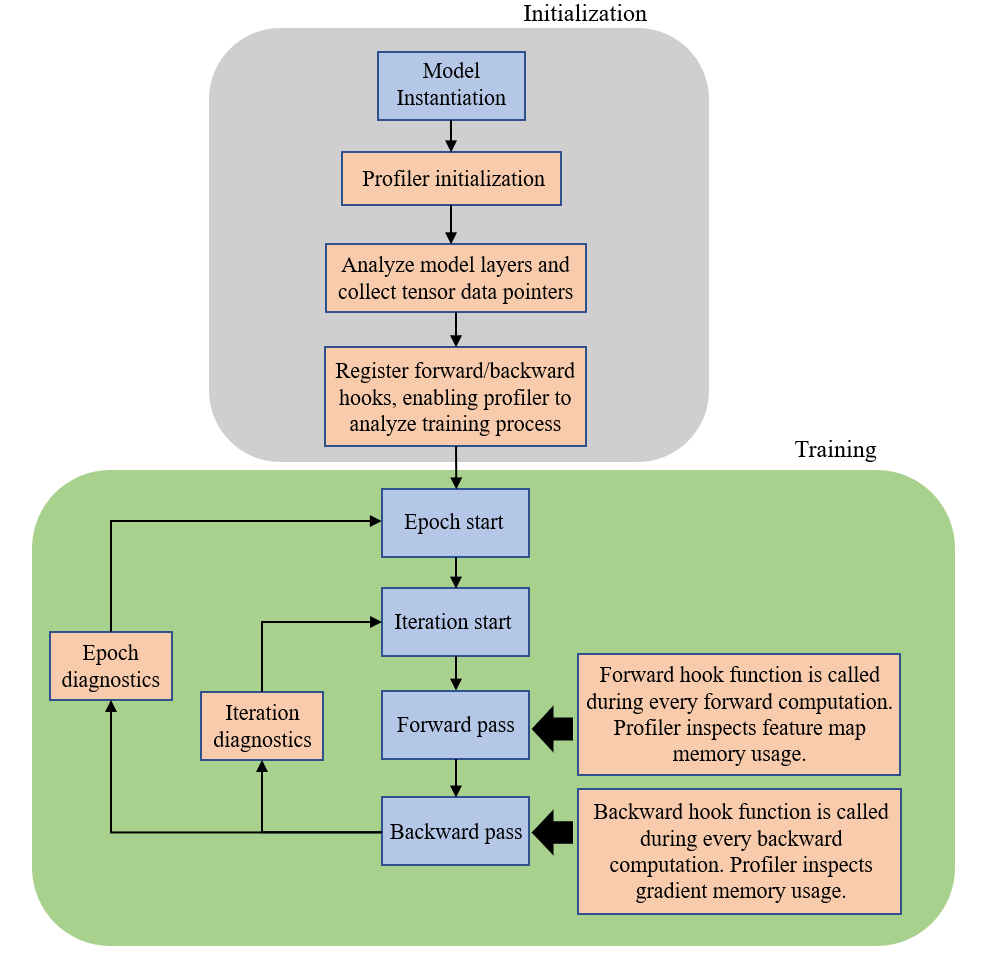
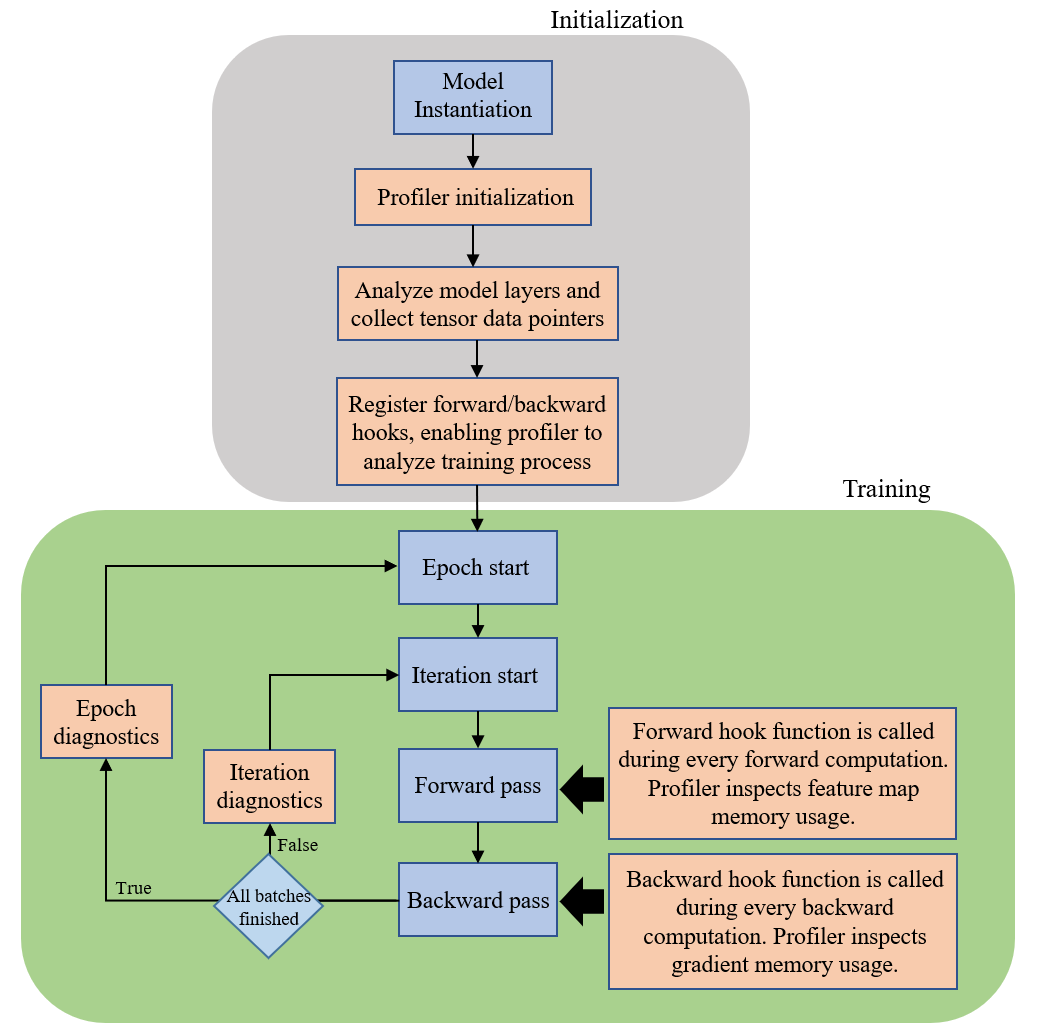
Outline of final report now in place. Added system diagram figure.

Changed region(s): [[0.0, 0.0, 1.0, 0.999], [0.1826, 0.0937, 0.213, 0.437]]

diff --git a/final_report/final_report.tex b/final_report/final_report.tex
@@ -64,7 +64,8 @@ The EcoSystem research group at the University of Toronto has developed open-sou
 
 To profile memory with PyTorch, the fastest-growing machine learning framework today, new strategies and insight are required. This paper first provides background on the topic, then presents a novel memory profiler for PyTorch along with results of it being used on real models. \par 
 
-\section{Background}
+%%%%%%%%% BACKGROUND 
+\section{Computational Machine Learning and Existing Profilers}
 %%%%%%%%% BACKGROUND::Neural Networks
 \cvprsubsection{Neural Networks}
 While there are many types of artificial neural networks, they all involve the transformation of some input data (for example the pixels of an image) into meaningful output - in fact, a neural network is nothing more than a composition of mathematical functions. The function modeled by a neural network is special, however, because it can model \textit{any} mathematical function with arbitrary accuracy (provided that the network has at least two layers) \cite{dnn_history}. It is because of this property that neural networks have been labeled \enquote*{universal approximators}. Loosely, this means that if there are useful patterns in the world - whether they correspond to user preferences in movies based on past movies they have watched, or classification of images based on their pixel composition, or even cardiac arrest likelihood based on heart rate - a sufficiently-trained neural network can identify it. The effectiveness of a neural network in identifying these patterns depends primarily on two things: the amount of data it has been trained with, and its specific topology.
@@ -189,15 +190,15 @@ The MXNet memory profiler's main challenge is linking symbol names to specific \
 \label{fig:mxnet_design}
 \end{figure}
 
-%%%%%%%%% PROGRESS TO DATE
-\section{Progress to Date}
+%%%%%%%%% METHODS
+\section{Designing a PyTorch Memory Profiler}
 \label{progress_to_date}
-Unlike the frameworks for which these memory profilers were created, PyTorch uses completely different memory management and computational graph strategies. In order to create a memory profiler for PyTorch, these differences must be investigated and thoroughly understood. This involves investigating both its front end (Python\footnote{While PyTorch does have a C++ front end as well, it is generally less user-friendly and not used as often}) and back end (C++) code implementations. This section discusses the internals of PyTorch and how a memory profiler can be created.
+Unlike the frameworks for which these memory profilers were created, PyTorch uses completely different memory management and computational graph strategies. In order to create a memory profiler for PyTorch, these differences must be investigated and thoroughly understood. This involves investigating both its front end (Python\footnote{While PyTorch does have a C++ front end as well, it is generally less user-friendly and not used as often}) and back end (C++) code implementations. This section discusses the internals of PyTorch and how the memory profiler was created.
 
-%%%%%%%%% PROGRESS TO DATE::Memory Caching
+%%%%%%%%% METHODS::Memory Caching
 \cvprsubsection{Memory Caching}
 \label{sec:memory_caching}
-The first difference - and perhaps most important one in the context of this paper - is how PyTorch handles its device memory. Unlike other frameworks, PyTorch uses \textit{caching} as its primary memory management strategy. The reason for this lies in the fact that PyTorch does not create a static computational graph with pre-allocated room for variables and tensors. This new paradigm, which is discussed in later sections of this paper, is known as \textit{dynamic computational graphs}. For now it suffices to say that PyTorch does not know how the forward and backward pass will be executed until runtime, i.e. until training or inference begins. Caching is best explained by the creators of PyTorch \cite{pytorch_paper}:
+The first difference - and perhaps most important one in the context of this paper - is how PyTorch handles its device memory. Unlike other frameworks, PyTorch uses \textit{caching} as its primary memory management strategy. The reason for this lies in the fact that PyTorch does not create a static computational graph with pre-allocated room for variables and tensors. This new paradigm, which is discussed in section \ref{dynamic_computational_graphs_and_autograd}, is known as \textit{dynamic computational graphs}. For now it suffices to say that PyTorch does not know how the forward and backward pass will be executed until runtime, i.e. until training or inference begins. Caching is best explained by the creators of PyTorch \cite{pytorch_paper}:
 
 \begin{quote}
 \enquote{
@@ -226,7 +227,7 @@ By gradually increasing the cache size as the program progresses, the majority o
  
 %%%%%%%%%%%%%%%%%%%%%%%%%%%%%%%%%%%%%%%%%%%%%%%%%%%%%%%%%%
 %
-%     PROGRESS TO DATE::Tensors in PyTorch
+%     METHODS ::Tensors in PyTorch
 %
 %%%%%%%%%%%%%%%%%%%%%%%%%%%%%%%%%%%%%%%%%%%%%%%%%%%%%%%%%%
 
@@ -306,8 +307,15 @@ The output is as follows:
 \end{lstlisting}
 \par
 This convenient saving of layer names has many similarities to the one previously discussed in MXNet in section \ref{sec:Machine_Learning_Frameworks_and_Memory_Profiler}, and will serve to be useful in creating a new memory profiler for PyTorch given the mapping it provides between layer names and their data objects. 
-%%%%%%%%% PROGRESS TO DATE::Dynamic Computational Graphs and Autograd
+
+%%%%%%%%%%%%%%%%%%%%%%%%%%%%%%%%%%%%%%%%%%%%%%%%%%%%%%%%%%
+%
+%     PROGRESS TO DATE::Dynamic Computational Graphs and Autograd
+%
+%%%%%%%%%%%%%%%%%%%%%%%%%%%%%%%%%%%%%%%%%%%%%%%%%%%%%%%%%%
+
 \cvprsubsection{Dynamic Computational Graphs and Autograd}
+\label{dynamic_computational_graphs_and_autograd}
 The network definition in Listing \ref{listing:nn.module_example} has one other important definition, namely its \texttt{forward()} method. This method describes the exact sequence of calculations that will be undertaken during the forward pass of the network, both during training and inference. This example is trivial, and the backward pass procedure could be defined manually with some basic calculus and a few lines of code. However, modern neural networks are very complex and have detailed computational procedures that define their forward passes. Manually defining a backward pass each time would be an arduous and error-prone process, and thus a more scalable system is required.
 \par
 
@@ -350,40 +358,40 @@ total_memory = tensor.storage().size() * tensor.element_size()
 The calculated total memory size can then be saved by the profiler and used by its algorithm. It is noted that, as mentioned in section \ref{sec:memory_caching}, allocations are rounded to 512 bytes and this must be taken into account by the profiler.
 \par 
 
-The proposed strategy involves creating a helper class which will do the memory profiling analysis. Users will be able to interface this profiler with their existing PyTorch code via a simple API, starting off by passing in their model instance. Once the profiler receives the model, it can access the model's \texttt{state\_dict} and determine the layer names and their underlying tensor data. This allows the profiler to determine the memory consumption of the weights.
-\par 
-
-Next, there must be a mechanism to analyze activations and gradients. Hooks are used for this purpose. Recall that there are many ways to use hooks, i.e. different types and also different ways to call each of these types. For activations, \texttt{register\_forward\_hook()} will internally be called on each of the layers. The function which is registered by the hook will inspect the activation output at the time it is being created, and measure its size in memory. This allows the profiler to directly measure how much device memory is being consumed by all the activations, broken down by layer name.
-\par 
-
-Gradients will also be analyzed with hooks, but this time by using \texttt{register\_backward\_hook()} on the model itself. This usage of the hooking mechanism will record all intermediate gradients that are calculated, not just the gradients for leaf nodes in the computational graph. The sizes of all these gradients will also be stored in the profiler's internal data structures.
-\par 
-
-Preliminary testing using this approach has been effective in capturing tensor data and determining memory usage.
-\par 
-
-%%%%%%%%% FUTURE WORK
-\section{Future Work}
-\label{future_work}
-A user-friendly and feature-complete profiler must be finalized. This requires combining the profiler components together, and further investigation about how to cleanly integrate the profiler with a user's PyTorch code. The current approach has been to insert a few API calls at specific sections of the training run - for example right before and after the \texttt{.backward()} call - which informs the user about the total memory usage of the program (including the cache), the total amount of the cache currently used by tensors, and a layer-by-layer breakdown of these tensors. Finally, given the rising usage of distributed computing techniques (several GPUs instead of just one) by the community, functionality to determine a device-by-device memory breakdown is needed. This is a straightforward extension of existing methods used by this profiler. The metrics gathered by the profiler must then be exported into visual graphs, which can be done using Matplotlib \cite{matplotlib}.
-\par
-
-Once the profiler has been completed, it will be used to investigate the memory usage of current models. This application of the profiler to real-world use cases will comprise the remainder of the project.
 \begin{figure}[ht]
 \centering
-\includegraphics[width=.9\textwidth]{remaining_work_schedule.png}
-\captionsetup{width=0.7\linewidth}
-\caption{Remaining timeline}
-\label{fig:thesis_timeline}
+\includegraphics[width=1.0\textwidth]{profiler_system_diagram.PNG}
+\captionsetup{width=0.9\linewidth}
+\caption{System diagram of the proposed PyTorch memory profiler}
+\label{fig:profiler_system_diagram}
 \end{figure}
 
+In Figure \ref{fig:profiler_system_diagram} blue steps comprise the normal training workflow, and orange steps are the modifications to the flow done autonomously by the profiler.
 
+% TODO: explain system diagram, walk explain how hooks and the profiler works in general, and go through the README example from github to show it in use
+% The proposed strategy involves creating a helper class which will do the memory profiling analysis. Users will be able to interface this profiler with their existing PyTorch code via a simple API, starting off by passing in their model instance. Once the profiler receives the model, it can access the model's \texttt{state\_dict} and determine the layer names and their underlying tensor data. This allows the profiler to determine the memory consumption of the weights.
+% \par 
 
+% Next, there must be a mechanism to analyze activations and gradients. Hooks are used for this purpose. Recall that there are many ways to use hooks, i.e. different types and also different ways to call each of these types. For activations, \texttt{register\_forward\_hook()} will internally be called on each of the layers. The function which is registered by the hook will inspect the activation output at the time it is being created, and measure its size in memory. This allows the profiler to directly measure how much device memory is being consumed by all the activations, broken down by layer name.
+% \par 
 
-%%%%%% csv stuff
+% Gradients will also be analyzed with hooks, but this time by using \texttt{register\_backward\_hook()} on the model itself. This usage of the hooking mechanism will record all intermediate gradients that are calculated, not just the gradients for leaf nodes in the computational graph. The sizes of all these gradients will also be stored in the profiler's internal data structures.
+% \par 
 
+% Preliminary testing using this approach has been effective in capturing tensor data and determining memory usage.
+% \par 
 
+%%%%%%%%% RESULTS
+\section{PyTorch Memory Profiling Results}
+\label{results}
+% TODO: show results from profiling 
+% A user-friendly and feature-complete profiler must be finalized. This requires combining the profiler components together, and further investigation about how to cleanly integrate the profiler with a user's PyTorch code. The current approach has been to insert a few API calls at specific sections of the training run - for example right before and after the \texttt{.backward()} call - which informs the user about the total memory usage of the program (including the cache), the total amount of the cache currently used by tensors, and a layer-by-layer breakdown of these tensors. Finally, given the rising usage of distributed computing techniques (several GPUs instead of just one) by the community, functionality to determine a device-by-device memory breakdown is needed. This is a straightforward extension of existing methods used by this profiler. The metrics gathered by the profiler must then be exported into visual graphs, which can be done using Matplotlib \cite{matplotlib}.
+% \par
 
+%%%%%%%%% CONCLUSION
+\section{Conclusion and Further Work}
+\label{conclusion}
+% TODO
 
 
 %%%%%%%%% APPENDIX
